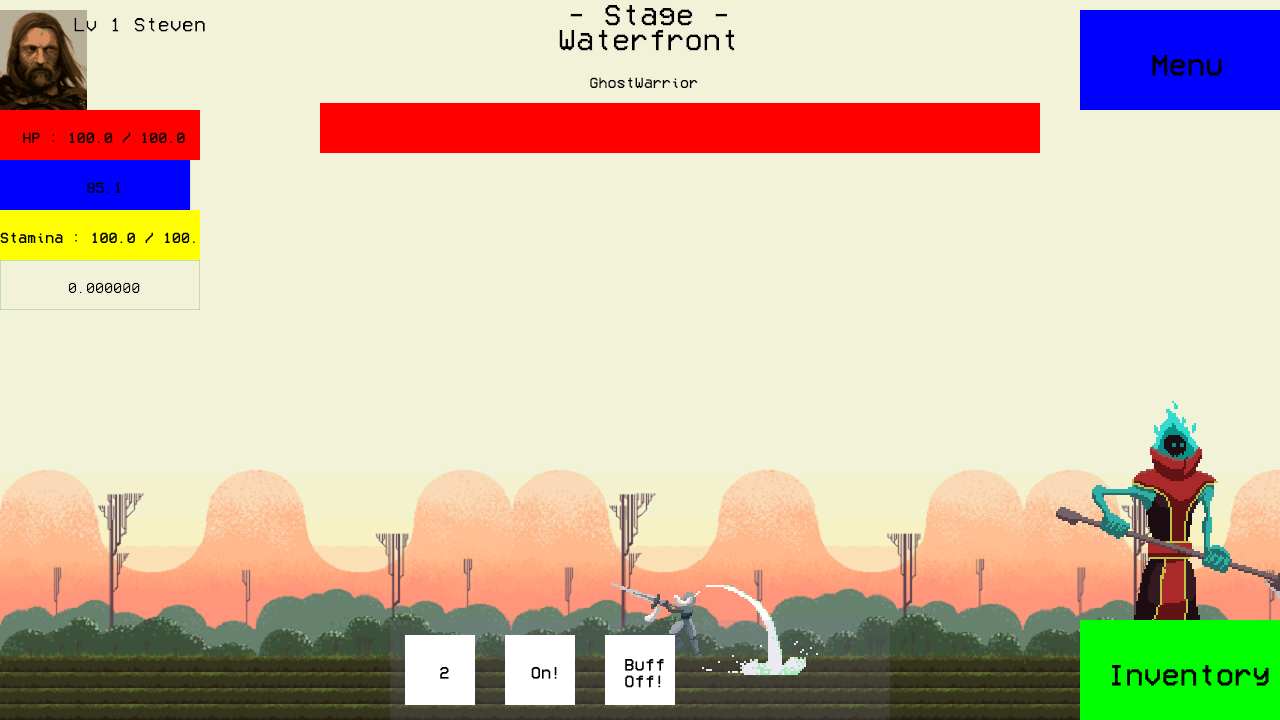
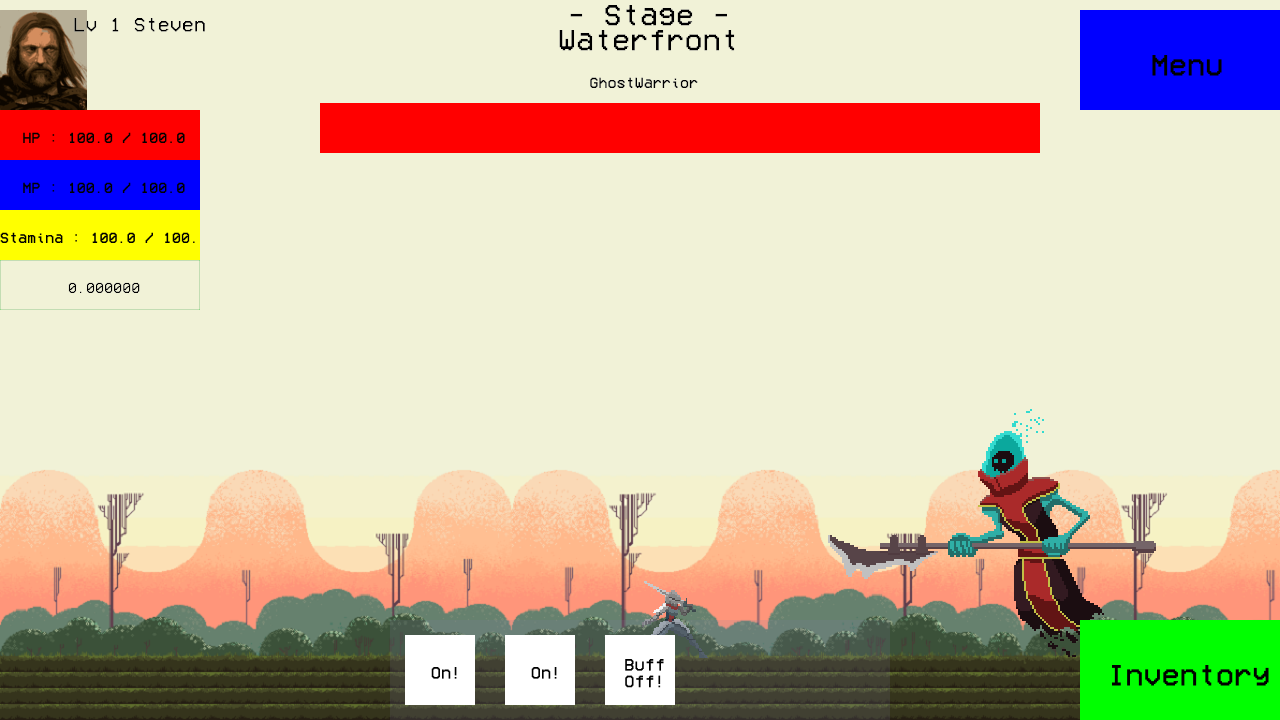
#academy
보스 페이즈 완성 충돌처리 하면됨

diff --git a/OpenGL-portfolio/GameObject/Enermy/GhostWarrior.cpp b/OpenGL-portfolio/GameObject/Enermy/GhostWarrior.cpp
@@ -28,7 +28,7 @@ GhostWarrior::GhostWarrior(int number)
 			"assets/stage/ghostwarrior/Attack/Attack%d.png", 11, 2.0f, {-150, -270},
 			"assets/stage/ghostwarrior/Attack/Attack%d.png", 11, 2.0f, {-150, -270},
 			"assets/stage/ghostwarrior/Fly/fly%d.png", 5, 2.0f, {-150,-270},
-			"assets/stage/ghostwarrior/Fly/fly%6d.png", 5, 2.0f, {-150,-270},
+			"assets/stage/ghostwarrior/Fly/fly%d.png", 5, 2.0f, {-150,-270},
 			"assets/stage/ghostwarrior/Fly/fly%d.png", 5, 2.0f, {-150,-270},
 			"assets/stage/ghostwarrior/Hit/hit%d.png", 6, 2.0f, {-150,-270},
 			"assets/stage/ghostwarrior/Death/death%d.png",8, 2.0f, {-150,-270},
@@ -68,7 +68,7 @@ GhostWarrior::GhostWarrior(int number)
 				break;
 
 			default:
-				img->_repeatNum = 1; // 테스트용 설정 나중에 1로 바꿔야함
+				img->_repeatNum = 1; 
 				break;
 			}
 
@@ -163,6 +163,7 @@ bool cc = false;
 
 void GhostWarrior::paint(float dt, iPoint offset, MapTile* tile, int NumX, int NumY)
 {
+
 	iPoint gwMovement = iPointMake(0, 1) * powGravity * dt ;
 	iPoint mp = v * (movement * dt);
 
@@ -177,7 +178,7 @@ void GhostWarrior::paint(float dt, iPoint offset, MapTile* tile, int NumX, int N
 		detected_Player = true;
 		oldPosition = position;
 		targetPosition = iPointMake(300, position.y);
-
+		tempY = position.y;
 		printf("Player Detected!\n");
 	}
 	
@@ -326,29 +327,55 @@ void GhostWarrior::paint(float dt, iPoint offset, MapTile* tile, int NumX, int N
 	}
 	else if (Parse == 2)
 	{
-		setBehave(ObjectBehave::ObjectBehave_move, direction);
-		targetPosition = iPointMake(MapTileWidth * 21, MapTileHeight * 17);
+		//printf("Fire Skill On!\n");
+		if (action == false)
+		{
+			direction = 1;
+			img->leftRight = direction;
+			setBehave(ObjectBehave::ObjectBehave_move, direction);
+			targetPosition = iPointMake(MapTileWidth * 21, MapTileHeight * 17);
 
-		moveForMouse(dt, NumX, NumY);
+			moveForMouse(dt, NumX, NumY);
+		}
 
 		if (targetPosition == position)
 		{
 			action = true;
-		}
-
-		if (action == true)
-		{
+			printf("Fire Meteor!!\n");
+			setBehave(ObjectBehave::ObjectBehave_meleeAttack1, direction);
 			
-				printf("Fire Meteor!!\n");
-				//2페이즈에서 맵전체 랜덤위치에 메테오 뿌림
+			if (aiTime >= _aiTime)
+			{
+				targetPosition = iPointMake(300,tempY);
+				oldPosition = iPointMake(MapTileWidth * 35, tempY);
+				action = false;
+				count = 0;
+				count2 = 0;
+				Parse = 1;
+			}
+
+			aiTime += 0.01f;;
+
+
+			//2페이즈에서 맵전체 랜덤위치에 메테오 뿌림
 		}
 
 	}
 	else if (Parse == 3)
 	{
+		printf("tttttttttttttttttttttttttttttttttttttttttttttttttttttttttttttttttttttttttt\n");
 		setHP(getMaxHp()); // 다시 체력 100%로
-		
+		targetPosition = iPointMake(300, MapTileHeight * 13);
+		oldPosition = iPointMake(MapTileWidth * 35, MapTileHeight * 13);
+
+		Parse = 1;
+		action = false;
+		count = 0;
+		count2 = 0;
+		aiTime = 0;
 		// 페이즈 1처럼 행동
+		setBehave(ObjectBehave::ObjectBehave_move, direction);
+		moveForMouse(dt, NumX, NumY);
 	}
 
 	if (imgSkill1->animation)
@@ -372,9 +399,11 @@ void GhostWarrior::setBehave(ObjectBehave be, int dir)
 			img->startAnimation(cbDeath, this);
 		else if (be == ObjectBehave::ObjectBehave_hurt)
 			img->startAnimation(cbHurt, this);
+		else if (be == ObjectBehave::ObjectBehave_meleeAttack1 && Parse == 2)
+			img->startAnimation(cbMeteorSkill, this);
 		else if (be == ObjectBehave::ObjectBehave_meleeAttack1)
 			img->startAnimation(cbMeleeAttack, this);
-		else if(be == ObjectBehave::ObjectBehave_meleeAttack2)
+		else if (be == ObjectBehave::ObjectBehave_meleeAttack2)
 			img->startAnimation(cbMeleeAttack2, this);
 		else
 			img->startAnimation(cbBehave, this);
@@ -413,6 +442,19 @@ void GhostWarrior::Skill1()
 void GhostWarrior::Skill2()
 {
 }
+
+void GhostWarrior::MeteorSkill()
+{
+	printf("METEOR!!!\n");
+
+	
+	setBehave(ObjectBehave::ObjectBehave_idle, direction);
+	
+
+
+
+}
+
 
 void GhostWarrior::setDmg(float dmg)
 {
@@ -471,6 +513,19 @@ void GhostWarrior::cbMeleeAttack2(void* cb)
 	o->Skill1();
 	o->aiTime = 0.0f;
 	o->count2++;
+}
+
+void GhostWarrior::cbMeteorSkill(void* cb)
+{
+	printf("at@@@@@@@@@@@@@@@@@@@@@@@@@@@@@@@@@@@@@@@@@@@@@@@@@@@@@ttt!\n");
+	GhostWarrior* o = (GhostWarrior*)cb;
+	addProjectile(3, iPointMake(100 + random() % 1100, 0), 3, 5+random()%20, 2);
+	addProjectile(3, iPointMake(100 + random() % 1100, 0), 3, 5+random() % 20, 2);
+	addProjectile(3, iPointMake(100 + random() % 1100, 0), 3, 5+random() % 20, 2);
+	addProjectile(3, iPointMake(random() % 1280, 0), 3, 5+ random() % 20, 2);
+	addProjectile(3, iPointMake(random() % 1280, 0), 3, 5+random() % 20, 2);
+	o->setBehave(ObjectBehave::ObjectBehave_move, o->direction);
+	
 }
 
 

diff --git a/OpenGL-portfolio/GameObject/GameEffect.cpp b/OpenGL-portfolio/GameObject/GameEffect.cpp
@@ -84,7 +84,7 @@ struct EffectHit
 	bool paint(float dt, iPoint off)
 	{
 		img->paint(dt, p + off);
-		img->leftRight = dir;
+		img->leftRight =  dir;
 		if (img->animation)
 			return false;
 		return true;
@@ -99,7 +99,7 @@ void loadEffectHit()
 {
 	int i;
 
-	_ehEffectHit = (EffectHit**)malloc(sizeof(EffectHit*) * 1);
+	_ehEffectHit = (EffectHit**)malloc(sizeof(EffectHit*) * 2);
 
 	iImage* img = new iImage();
 	for (i = 0; i < 31; i++)
@@ -118,7 +118,28 @@ void loadEffectHit()
 
 	delete img;
 
-	ehEffectHit = (EffectHit**)malloc(sizeof(EffectHit*) * 1 * _ehNum);
+	setRGBA(1, 1, 1, 1);
+	img = new iImage();
+	for (i = 1; i < 20; i++)
+	{
+		Texture* tex = createImage("assets/stage/ghostwarrior/colisioneffect/eff (%d).png", i);
+		tex->width *= 0.7f;
+		tex->height *= 0.7f;
+		tex->potWidth *= 0.7f;
+		tex->potHeight *= 0.7f;
+		img->addObject(tex);
+		freeImage(tex);
+	}
+	img->position = iPointMake(0, 0);
+	img->_aniDt = 0.01f;
+	img->_repeatNum = 1;
+
+	_ehEffectHit[1] = (EffectHit*)malloc(sizeof(EffectHit) * _ehNum);
+	for (i = 0; i < _ehNum; i++)
+		_ehEffectHit[1][i].img = img->copy();
+
+
+	ehEffectHit = (EffectHit**)malloc(sizeof(EffectHit*) * 2 * _ehNum);
 	ehNum = 0;
 }
 
@@ -193,10 +214,17 @@ struct Projectile
 
 		if (dir == 1)
 			p += iPointMake(1, 0) * speed;
+
+		else if (dir == 2)
+			p += iPointMake(0, -1) * speed;
+		else if (dir == 3)
+			p += iPointMake(0, 1) * speed;
+
 		else
 			p += iPointMake(-1, 0) * speed;
+		
 		img->paint(dt, p + off);
-		img->leftRight = dir;
+		img->leftRight = 0;
 
 		/*
 		extern int gameState;
@@ -275,7 +303,19 @@ struct Projectile
 				return true;
 			}
 		}
+		else if (shooter == 2)  // 발사한 오브젝트가 boss면
+		{
 
+			if (gameState == gs_villege)
+			{
+				if (containPoint(p, iRectMake(0,400,3000,3000))) // 땅에 충돌시
+				{
+					printf("explosion\n");
+					addEffectHit(1, iPointMake(p.x, p.y));
+					return true;
+				}
+			}
+		}
 
 
 
@@ -296,8 +336,8 @@ int projectNum;
 void loadProjectile()
 {
 	int i;
-	_projectile = (Projectile**)malloc(sizeof(Projectile*) * 3); // 0 : 플레이어 2 번스킬 , 1 : Mushroom 투사체 2 : boss Skill1 바닥이펙트
-
+	_projectile = (Projectile**)malloc(sizeof(Projectile*) * 4); // 0 : 플레이어 2 번스킬 , 1 : Mushroom 투사체 2 : boss Skill1 바닥이펙트
+	// 4 :보스 메테오
 	iImage* img = new iImage();
 	for (int i = 0; i < 61; i++)
 	{
@@ -354,9 +394,37 @@ void loadProjectile()
 		_projectile[2][i].img = img->copy();
 
 
-	projectile = (Projectile**)malloc(sizeof(Projectile*) * 3 * _projectNum);
-	projectNum = 0;
 
+	delete img;
+
+	img = new iImage();
+	for (int i = 0; i < 61; i++)
+	{
+		Texture* tex = createImage("assets/stage/props/fire/tile%03d.png", i);
+
+		tex->height *= 3.0f;
+		tex->width *= 3.0f;
+		tex->potHeight *= 3.0f;
+		tex->potWidth *= 3.0f;
+		
+		img->addObject(tex);
+		img->leftRight = 1;
+	
+		freeImage(tex);
+	}
+
+	img->position = iPointMake(0, 0);
+	img->aniDt = 0.0f;
+	img->_aniDt = 0.025f;
+	img->_repeatNum = 0;
+
+	_projectile[3] = (Projectile*)malloc(sizeof(Projectile) * _projectNum);
+
+	for (i = 0; i < _projectNum; i++)
+		_projectile[3][i].img = img->copy();
+
+	projectile = (Projectile**)malloc(sizeof(Projectile*) * 4 * _projectNum);
+	projectNum = 0;
 }
 
 void freeProjectile()

diff --git a/OpenGL-portfolio/GameObject/Enermy/GhostWarrior.h b/OpenGL-portfolio/GameObject/Enermy/GhostWarrior.h
@@ -13,8 +13,8 @@ public:
 
 	void setBehave(ObjectBehave be, int dir);
 	void Skill1();
-	
 	void Skill2();
+	void MeteorSkill();
 	void setDmg(float dmg);
 
 	static void cbDeath(void* cb);
@@ -22,7 +22,7 @@ public:
 	static void cbSkill(void* cb);
 	static void cbMeleeAttack(void* cb);
 	static void cbMeleeAttack2(void* cb);
-
+	static void cbMeteorSkill(void* cb);
 
 public:
 
@@ -36,6 +36,7 @@ public:
 	bool leftRight = false; // false : left, true : right;
 	int count;
 	int count2;
+	float tempY;
 public:
 	float aiTime, _aiTime;
 
